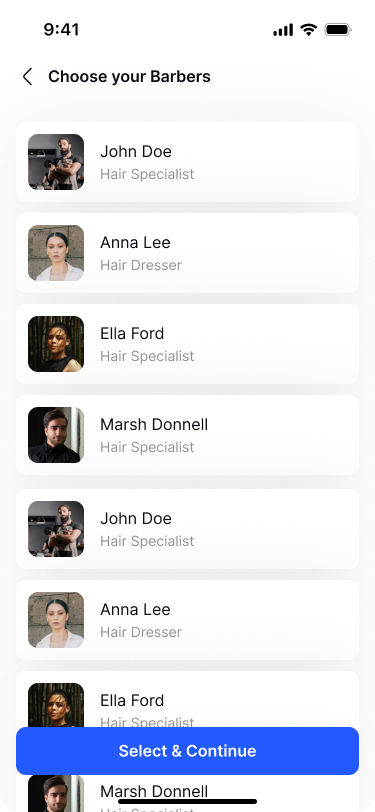
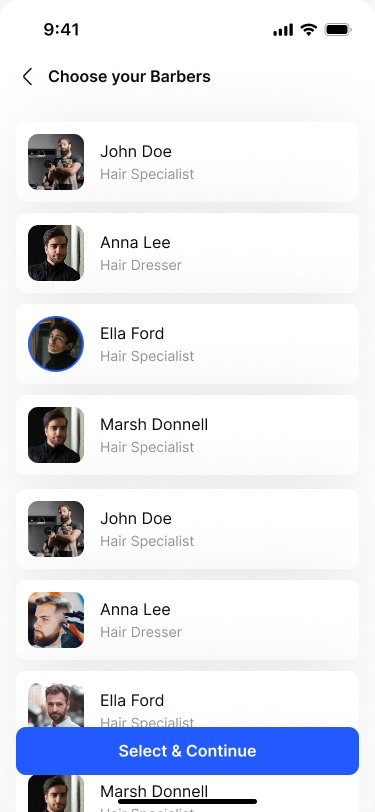
Fixed slider and female images

diff --git a/components/AppShowcase.tsx b/components/AppShowcase.tsx
@@ -37,7 +37,7 @@ export default function AppShowcase() {
     align: 'center',
     skipSnaps: false,
     containScroll: false,
-  }, [Autoplay({ delay: 3000, stopOnInteraction: false })]);
+  }, [Autoplay({ delay: 6000, stopOnInteraction: false })]);
 
   const [tweenValues, setTweenValues] = useState<number[]>([]);
   const [diffValues, setDiffValues] = useState<number[]>([]);
@@ -119,13 +119,13 @@ export default function AppShowcase() {
                     >
                       <div className="relative w-full max-w-[280px] aspect-[9/18.6] rounded-[3rem] border-[12px] border-[#1a1c22] overflow-hidden shadow-[0_30px_60px_-15px_rgba(59,130,246,0.3)] group bg-[#1a1c22]">
                         {/* Glass Overlay for depth */}
-                        <div className="absolute inset-0 bg-gradient-to-t from-black/80 via-transparent to-transparent z-10 opacity-60" />
+                        <div className="absolute inset-0 bg-gradient-to-t from-black/80 via-transparent to-transparent z-10 opacity-60 rounded-[2.25rem] [backface-visibility:hidden]" />
                         
                         <Image 
                           src={screen.image} 
                           alt={screen.title} 
                           fill 
-                          className="object-cover group-hover:scale-105 transition-transform duration-700"
+                          className="object-cover rounded-[2.25rem] group-hover:scale-105 transition-transform duration-700 will-change-transform transform-gpu [backface-visibility:hidden]"
                           priority={index === 0}
                         />
                         
